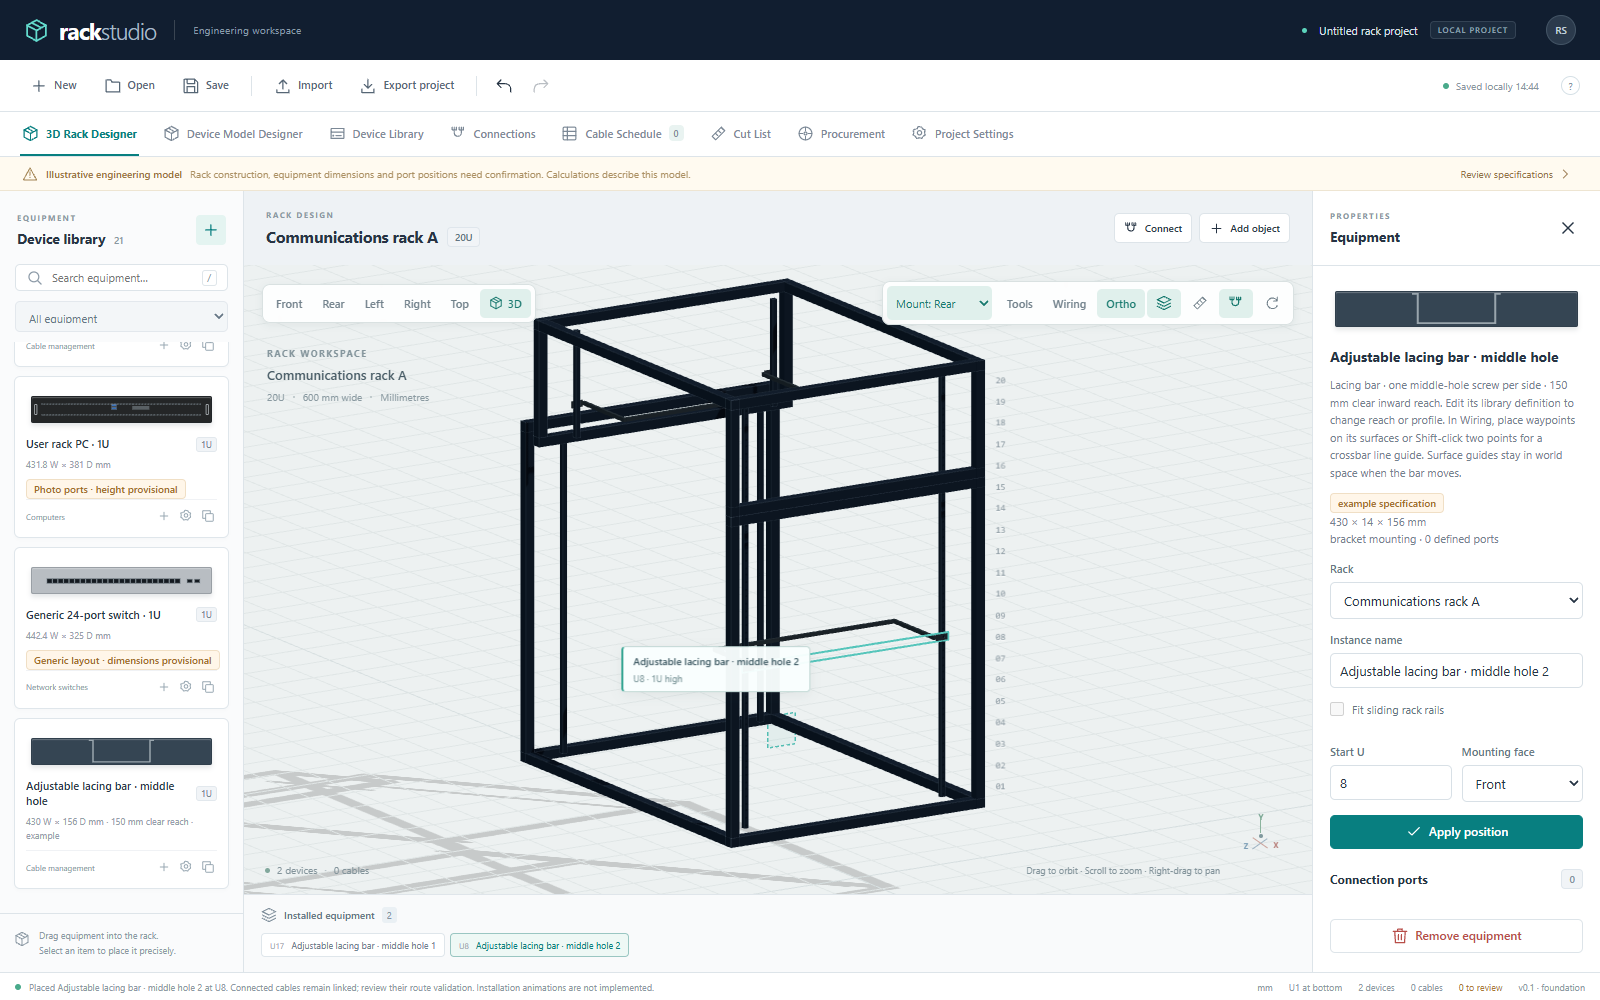
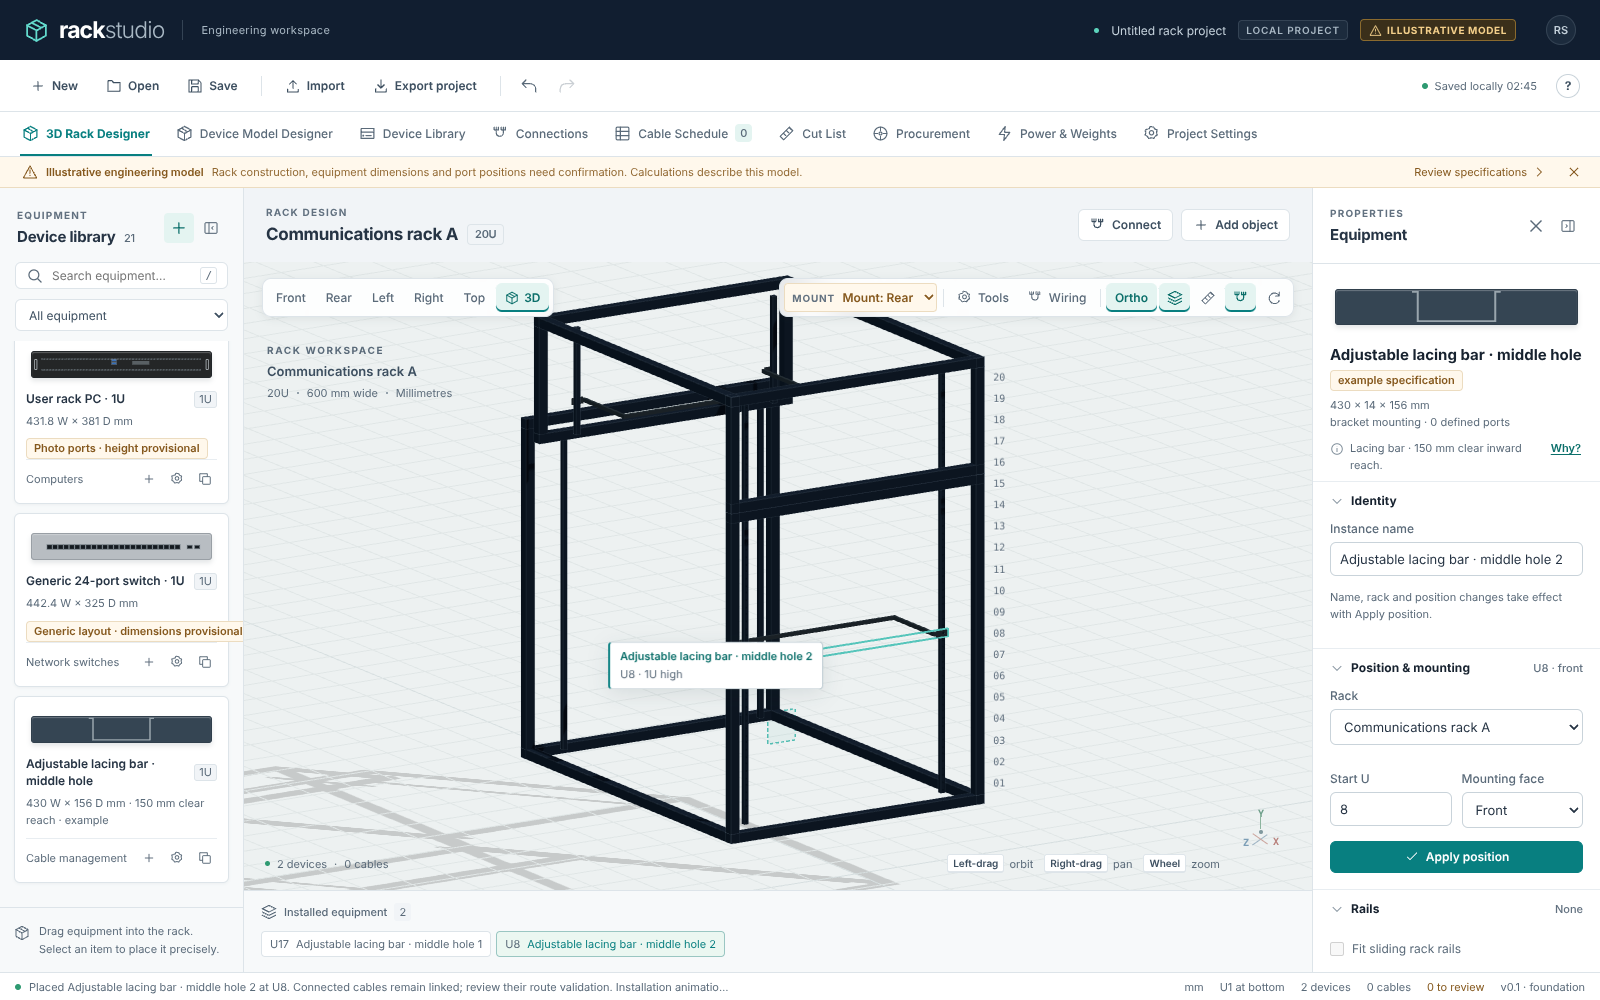
Record UI polish results and refresh page-level screenshots
- PROJECT_STATUS, TESTING and progress record the presentation-only UI
  pass, the unit/build results and the actual browser results against
  the main baseline.
- Refresh the page-level workflow captures whose UI changed; canvas-only
  captures that differed only by render noise are left unchanged.
- Add 1440x900 before/after comparisons in docs/screenshots/ui-polish/.

Claude-Session: https://claude.ai/code/session_018U6FEL3WmwdkvnnBn1fmB2

diff --git a/docs/PROJECT_STATUS.md b/docs/PROJECT_STATUS.md
@@ -29,6 +29,7 @@ Snapshot: 25 October 2026. Milestone: preserve the working lacing-bar/rear-place
 | Automated tests | Implemented; Linux browser baseline known to be broken | 302 numeric/state tests and all 29 current local Edge workflows pass. Linux Chromium run has six observed failures and did not finish before the time limit; see `TESTING.md`. Full controlled visual regression and coverage instrumentation are absent |
 | Repository/CI/cloud readiness | Partially implemented | GitHub push/SHA, independent clone/install/check, shared instructions and PR workflow verified. Linux install/type/lint/unit/build pass; browser CI fails and needs diagnosis. Claude Code cloud sessions are prepared by a SessionStart hook (see `CLOUD_SETUP.md`); the Codex Cloud connection remains the owner's step. Main branch protection is disabled |
 | Private static hosting | Configured; awaiting owner dashboard setup | `wrangler.jsonc` and `public/_headers` serve the build at `rackstudio.app` behind Cloudflare Access (`HOSTING.md`). Verified locally through Wrangler 4.149.0: headers applied, `_headers` not served, unknown paths fall back to the app, 28 of 29 Chromium workflows pass against it. The remaining photographed-PC workflow times out identically on the unchanged Vite server (existing Linux issue #4). Repository connection, first deploy and Access policy are owner steps, not yet verified live |
+| User interface polish | Implemented; presentation only | 27 October 2026: CSS design tokens (documented scale, AA contrast for helper text, 11 px minimum body text), standard button variants with tooltips, sectioned collapsible Inspector with compact caveat notes, collapsible/resizable side panels, viewport mode pill with Exit/Esc, docked Wiring/Tools drawer, consistent viewport toolbar, Device Model Designer card layout, session-dismissible accuracy strip with a permanent header badge, and fixes for the library footer overlap, table header grip overlap and missing sticky table column. No model, engineering, state or data-format change. `pnpm check` passes (387 tests); browser results are in `TESTING.md`. Tab consolidation is only proposed (`ui-navigation-proposal.md`) |
 | Hosted backend/team features | Planned | No accounts, authorisation service, shared inventory or project backend. Hosting serves the frontend only; projects stay in each browser |
 
 ## Next work

diff --git a/docs/TESTING.md b/docs/TESTING.md
@@ -51,4 +51,6 @@ The first completed Linux Chromium run ([40227251797](https://github.com/RBNebul
 
 A full local `pnpm test:e2e` on 26 October 2026 (Claude Code cloud session, fallback Chromium 1243, without `CI=true`) gave 29 passed and 6 failed. Five failures are on the baseline list above (shelf placement, sliding rails, generic switch, adjacent-rack assemblies, photographed-PC placement); connector rotation passed. The sixth, `tests/workflows.spec.ts` custom definition save/reload, fails because the Device Library tab is restored after reload so the canvas is absent; it fails identically before the power, report and cabling changes and is tracked with the Linux baseline. All six are timeouts or missing elements, not routing or connectivity assertions.
 
+UI polish branch, 27 October 2026 (Claude Code cloud session, Chromium 1248, one spec file per invocation, without `CI=true`). Unmodified `main` (1f20feb) first gave 37 passed and 4 failed: device rails, adjacent-rack assemblies, attached clips/vehicle endpoint and photographed-PC placement, all screenshot timeouts. The final branch head gave 36 passed and 7 failed. Five are screenshot (`waiting for fonts to load`) or `page.reload` 10 s timeouts: device rails, adjacent-rack assemblies, photographed-PC placement, generic shelf placement and connector rotation. Generic switch failed on a `page.reload` timeout, and the custom-definition save/reload workflow failed on the documented restored-Library-tab issue. None is a behaviour assertion. `page.reload` timeouts also occur on `main`: connector rotation failed 2 of 5 repeated runs there and 4 of 5 on the branch, where reloads measured roughly 1–2 s slower (9.5–11 s against 8.6–8.9 s) with no difference in retained heap. That margin is within run-to-run noise but is recorded as a possible small regression. A label race introduced by the docked drawer, where a port pin could be clicked at a pre-resize position, was found by `cable-rules` and fixed: it passed 4 of 4 repeats afterwards.
+
 The `Validate` GitHub workflow runs locked installation, typecheck, lint, unit/integration tests, production build and Chromium workflows on main pushes/PRs, with dependency-store caching, one Linux job and no failure suppression. It can also be started manually. A successful upload is not a test result.

diff --git a/docs/progress.md b/docs/progress.md
@@ -143,3 +143,7 @@ Added a read-only **Power & Weights** report tab. `src/engineering/power-report.
 Added Cloudflare Workers static-asset hosting for the unchanged production build at `rackstudio.app` (`wrangler.jsonc`), with `workers.dev` and preview URLs disabled so the Access-protected custom domain is the only address. `public/_headers` adds a same-origin content security policy, `nosniff`, no referrer, disabled device permissions, `noindex` and immutable caching for fingerprinted assets. `HOSTING.md` records the owner's dashboard steps. No application source changed and Wrangler is not a project dependency.
 
 `pnpm check` passes (typecheck, lint, 302 tests in 23 files, build of index-18QnjpoI.js / Scene-DuiHiMVa.js). Served through `wrangler@4.149.0 dev` on Linux, headers were present, `/_headers` was not exposed and deep navigation returned the app. Pre-installed Chromium ran all 29 workflows against that server: 28 passed; the photographed-PC workflow timed out in camera settling and fails the same way against the plain Vite dev server (issue #4). After merging the Power & Weights work from `main`, `pnpm check` passes with 387 tests in 25 files, and its 12 new power, power-report and cable-rule workflows all pass against the Wrangler-served build with these headers, including the print layout. The live deploy and Access sign-in are not yet verified.
+
+## User interface polish · 27 October 2026
+
+Presentation-only pass over the shell, 3D designer, Inspector, reports and Device Model Designer, delivered in four phases on `claude/eloquent-mccarthy-g6oal8`. Phase 1 adds design tokens, readable type, button variants, tooltips and fixes for three layout bugs. Phase 2 sections the Inspector and makes the side panels collapsible and resizable. Phase 3 adds the viewport mode pill, the docked Wiring/Tools drawer and a consistent toolbar. Phase 4 gives the designer the card layout, makes the accuracy notice compact, and proposes fewer tabs in `ui-navigation-proposal.md` (not implemented). No model, engineering, state or saved-data change. Before/after captures are in `screenshots/ui-polish/`. Results: `pnpm check` passes with 387 tests; browser results and the pre-existing timeout failures are recorded in `TESTING.md`.
